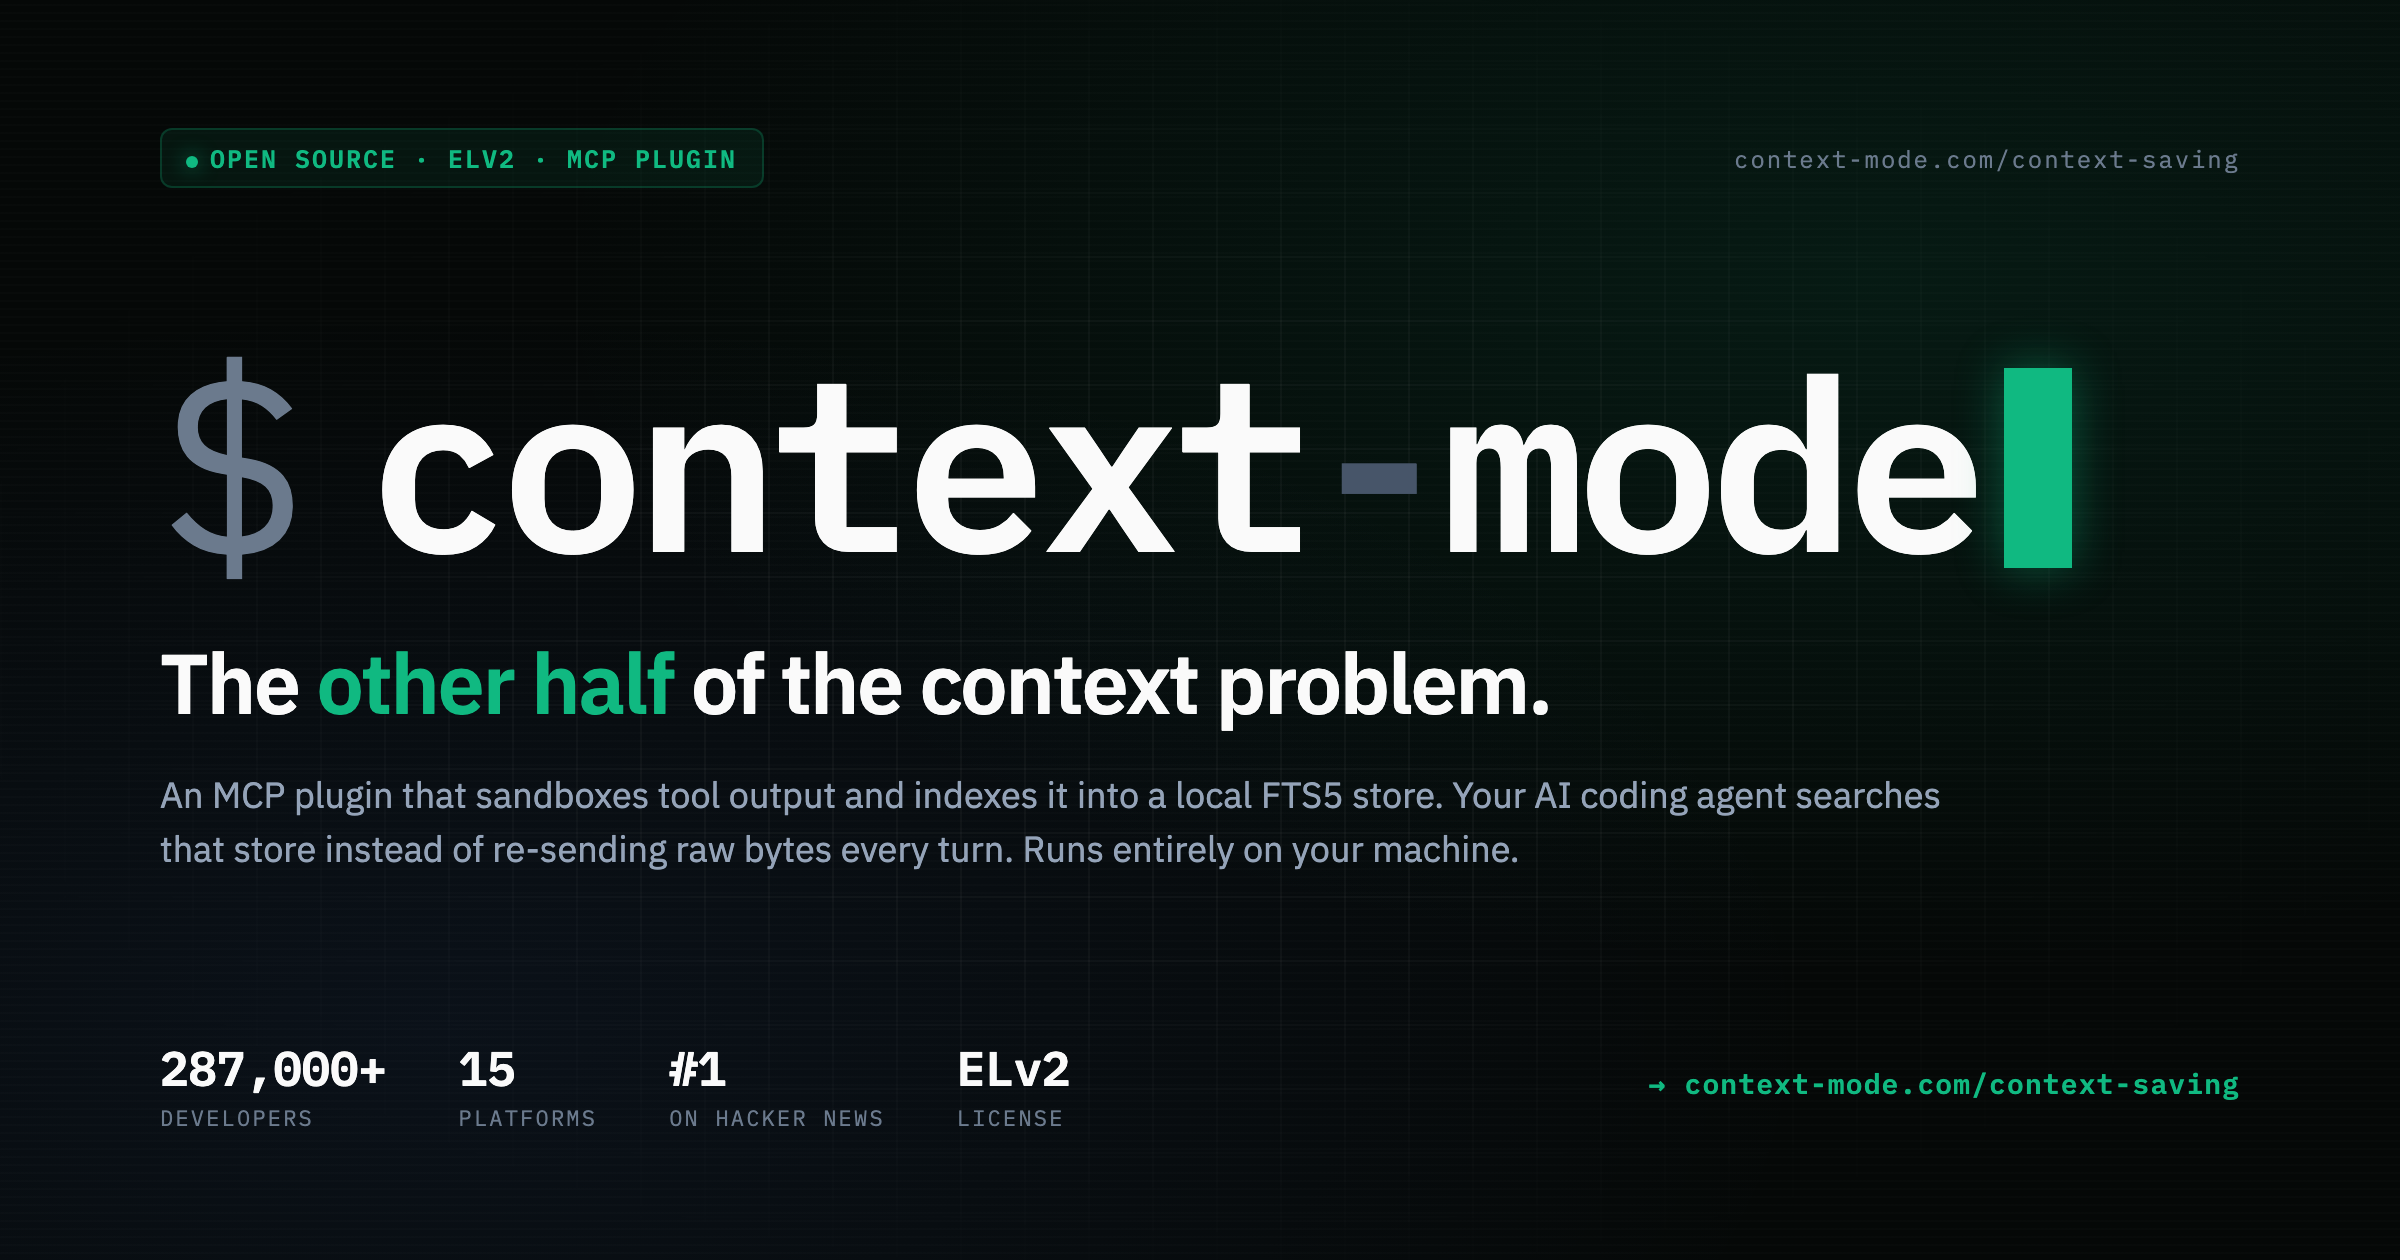
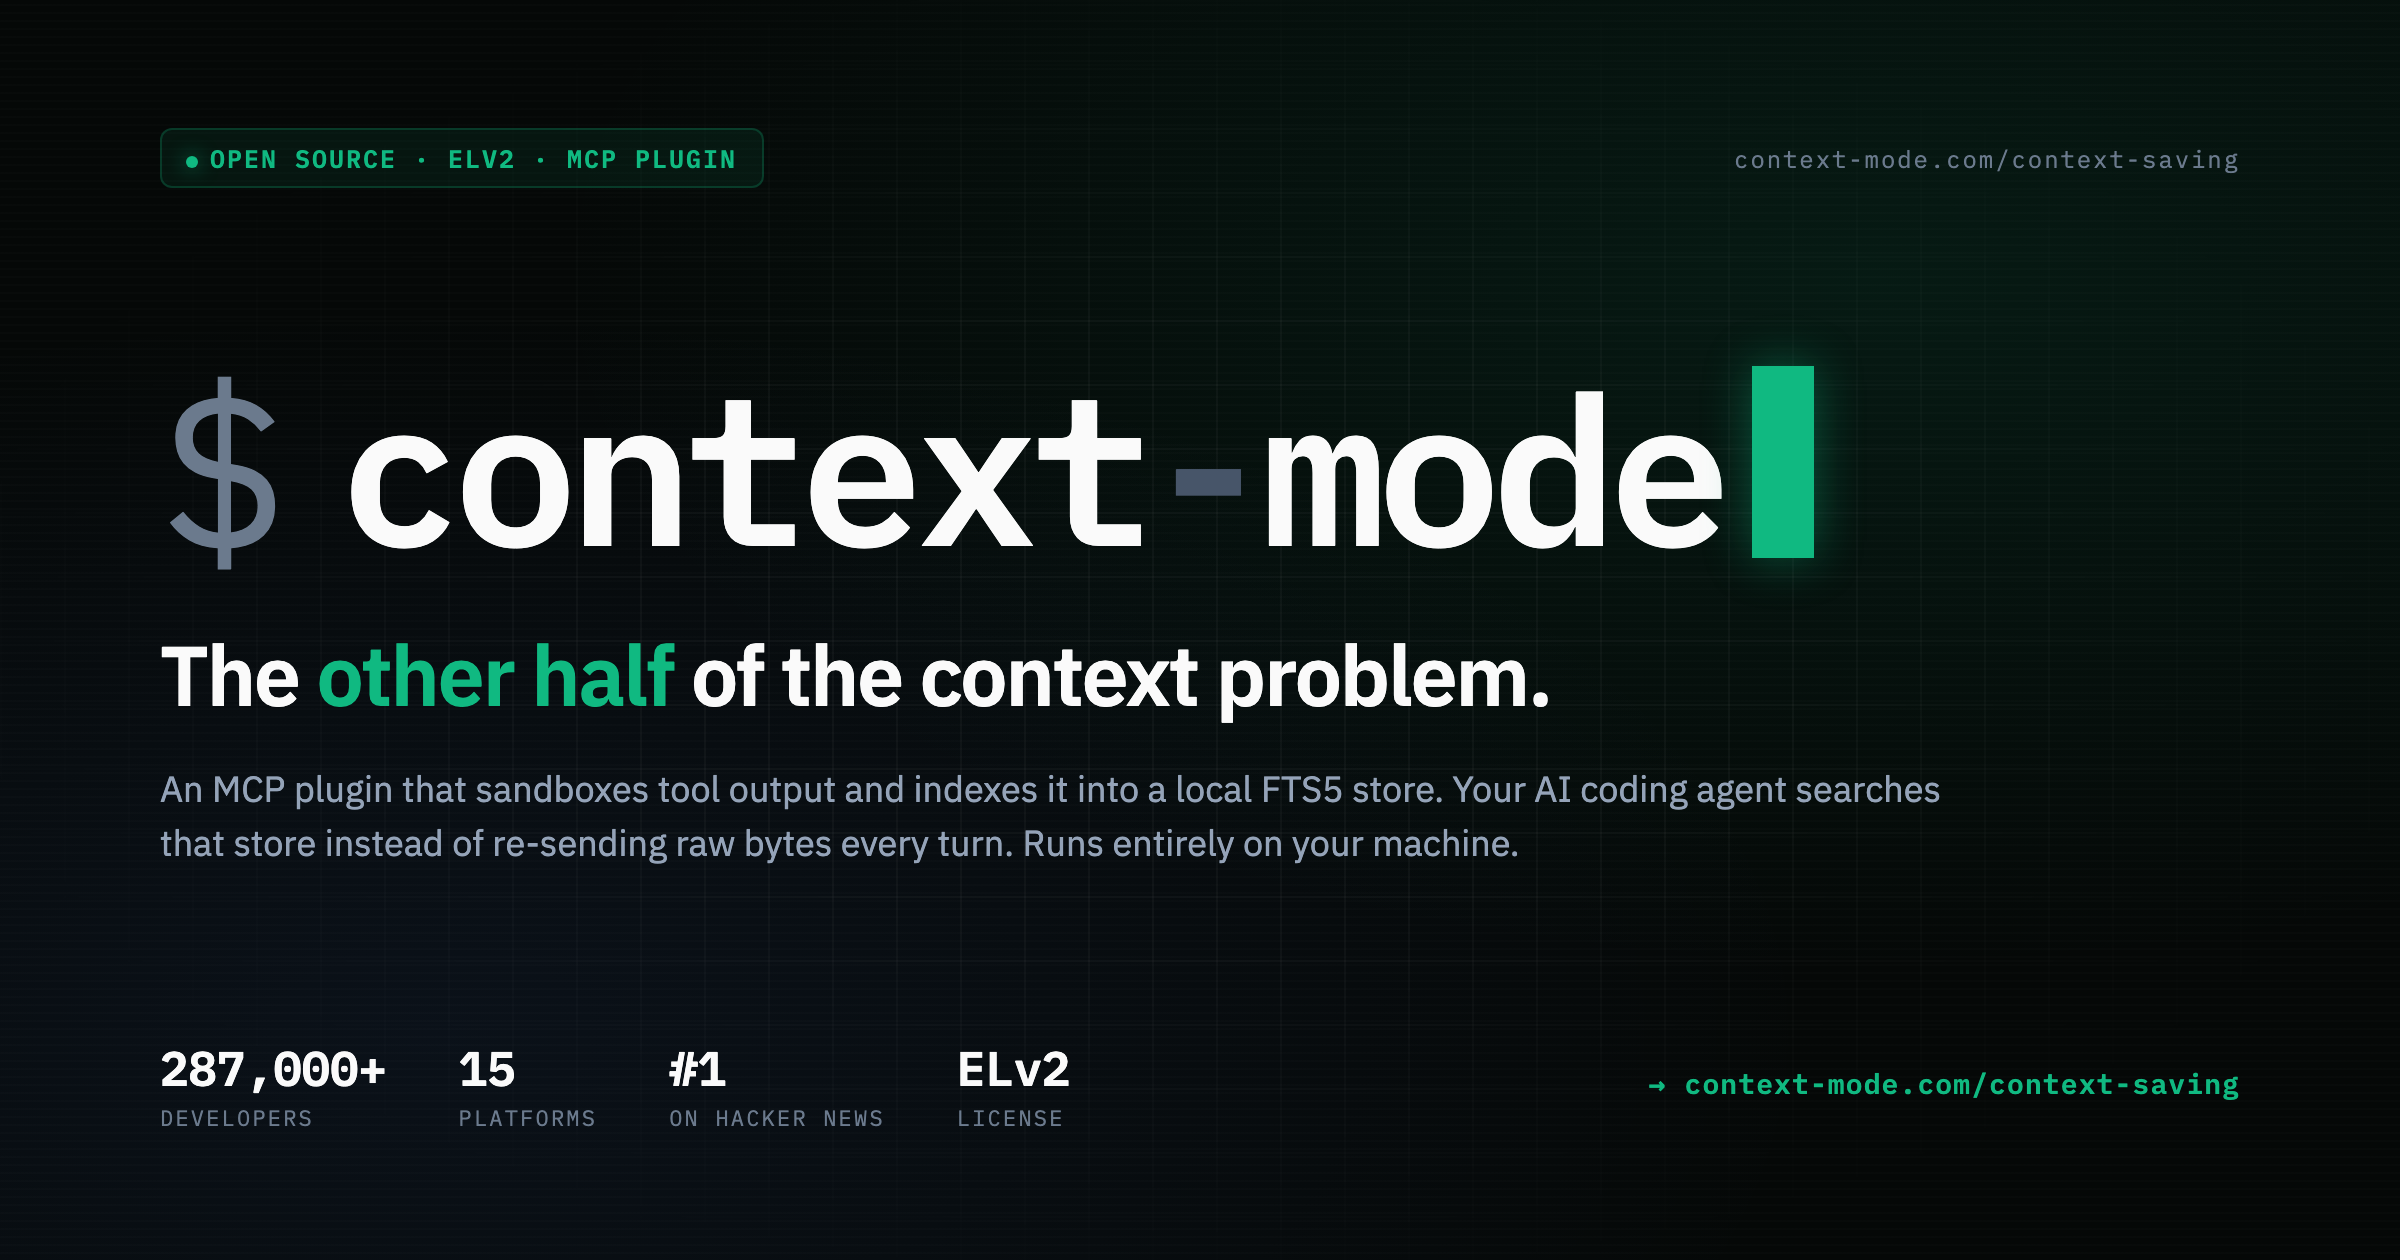
fix(og): unify context-saving wordmark with Master + Insight
Same typography pass on the dark surface banner:
- font-weight 600 → 700
- font-size 120px → 104px
- letter-spacing -.04em → -.045em
- cursor 34×100 → 31×96 (.30em × .92em proportional)

All three OG banners now share one wordmark system.

diff --git a/web/og/context-saving-og.html b/web/og/context-saving-og.html
@@ -32,10 +32,10 @@
   .dot{display:inline-block;width:6px;height:6px;border-radius:50%;background:#10b981;margin-right:6px;vertical-align:middle;box-shadow:0 0 10px rgba(16,185,129,.7)}
   .meta{font-size:12px;color:#6b7a8d;letter-spacing:.08em}
   .stack{position:relative;z-index:2}
-  .wordmark{display:inline-flex;align-items:baseline;font-weight:600;font-size:120px;line-height:.95;letter-spacing:-.04em;color:#fafafa}
+  .wordmark{display:inline-flex;align-items:baseline;font-weight:700;font-size:104px;line-height:.95;letter-spacing:-.045em;color:#fafafa}
   .wordmark .prompt{color:#6b7a8d;margin-right:.3em;font-weight:400}
   .wordmark .dash{color:#475569}
-  .cursor{display:inline-block;width:34px;height:100px;background:#10b981;margin-left:12px;transform:translateY(8px);box-shadow:0 0 24px rgba(16,185,129,.4)}
+  .cursor{display:inline-block;width:31px;height:96px;background:#10b981;margin-left:14px;transform:translateY(6px);box-shadow:0 0 24px rgba(16,185,129,.4)}
   .tagline{margin-top:30px;font-family:'IBM Plex Sans',sans-serif;font-style:normal;font-weight:600;font-size:42px;line-height:1.15;color:#fafafa;letter-spacing:-.025em;max-width:980px}
   .tagline em{font-style:normal;color:#10b981;font-weight:600}
   .sub{margin-top:18px;font-family:'IBM Plex Sans',sans-serif;font-size:18px;line-height:1.5;color:#94a3b8;max-width:900px;font-weight:400}